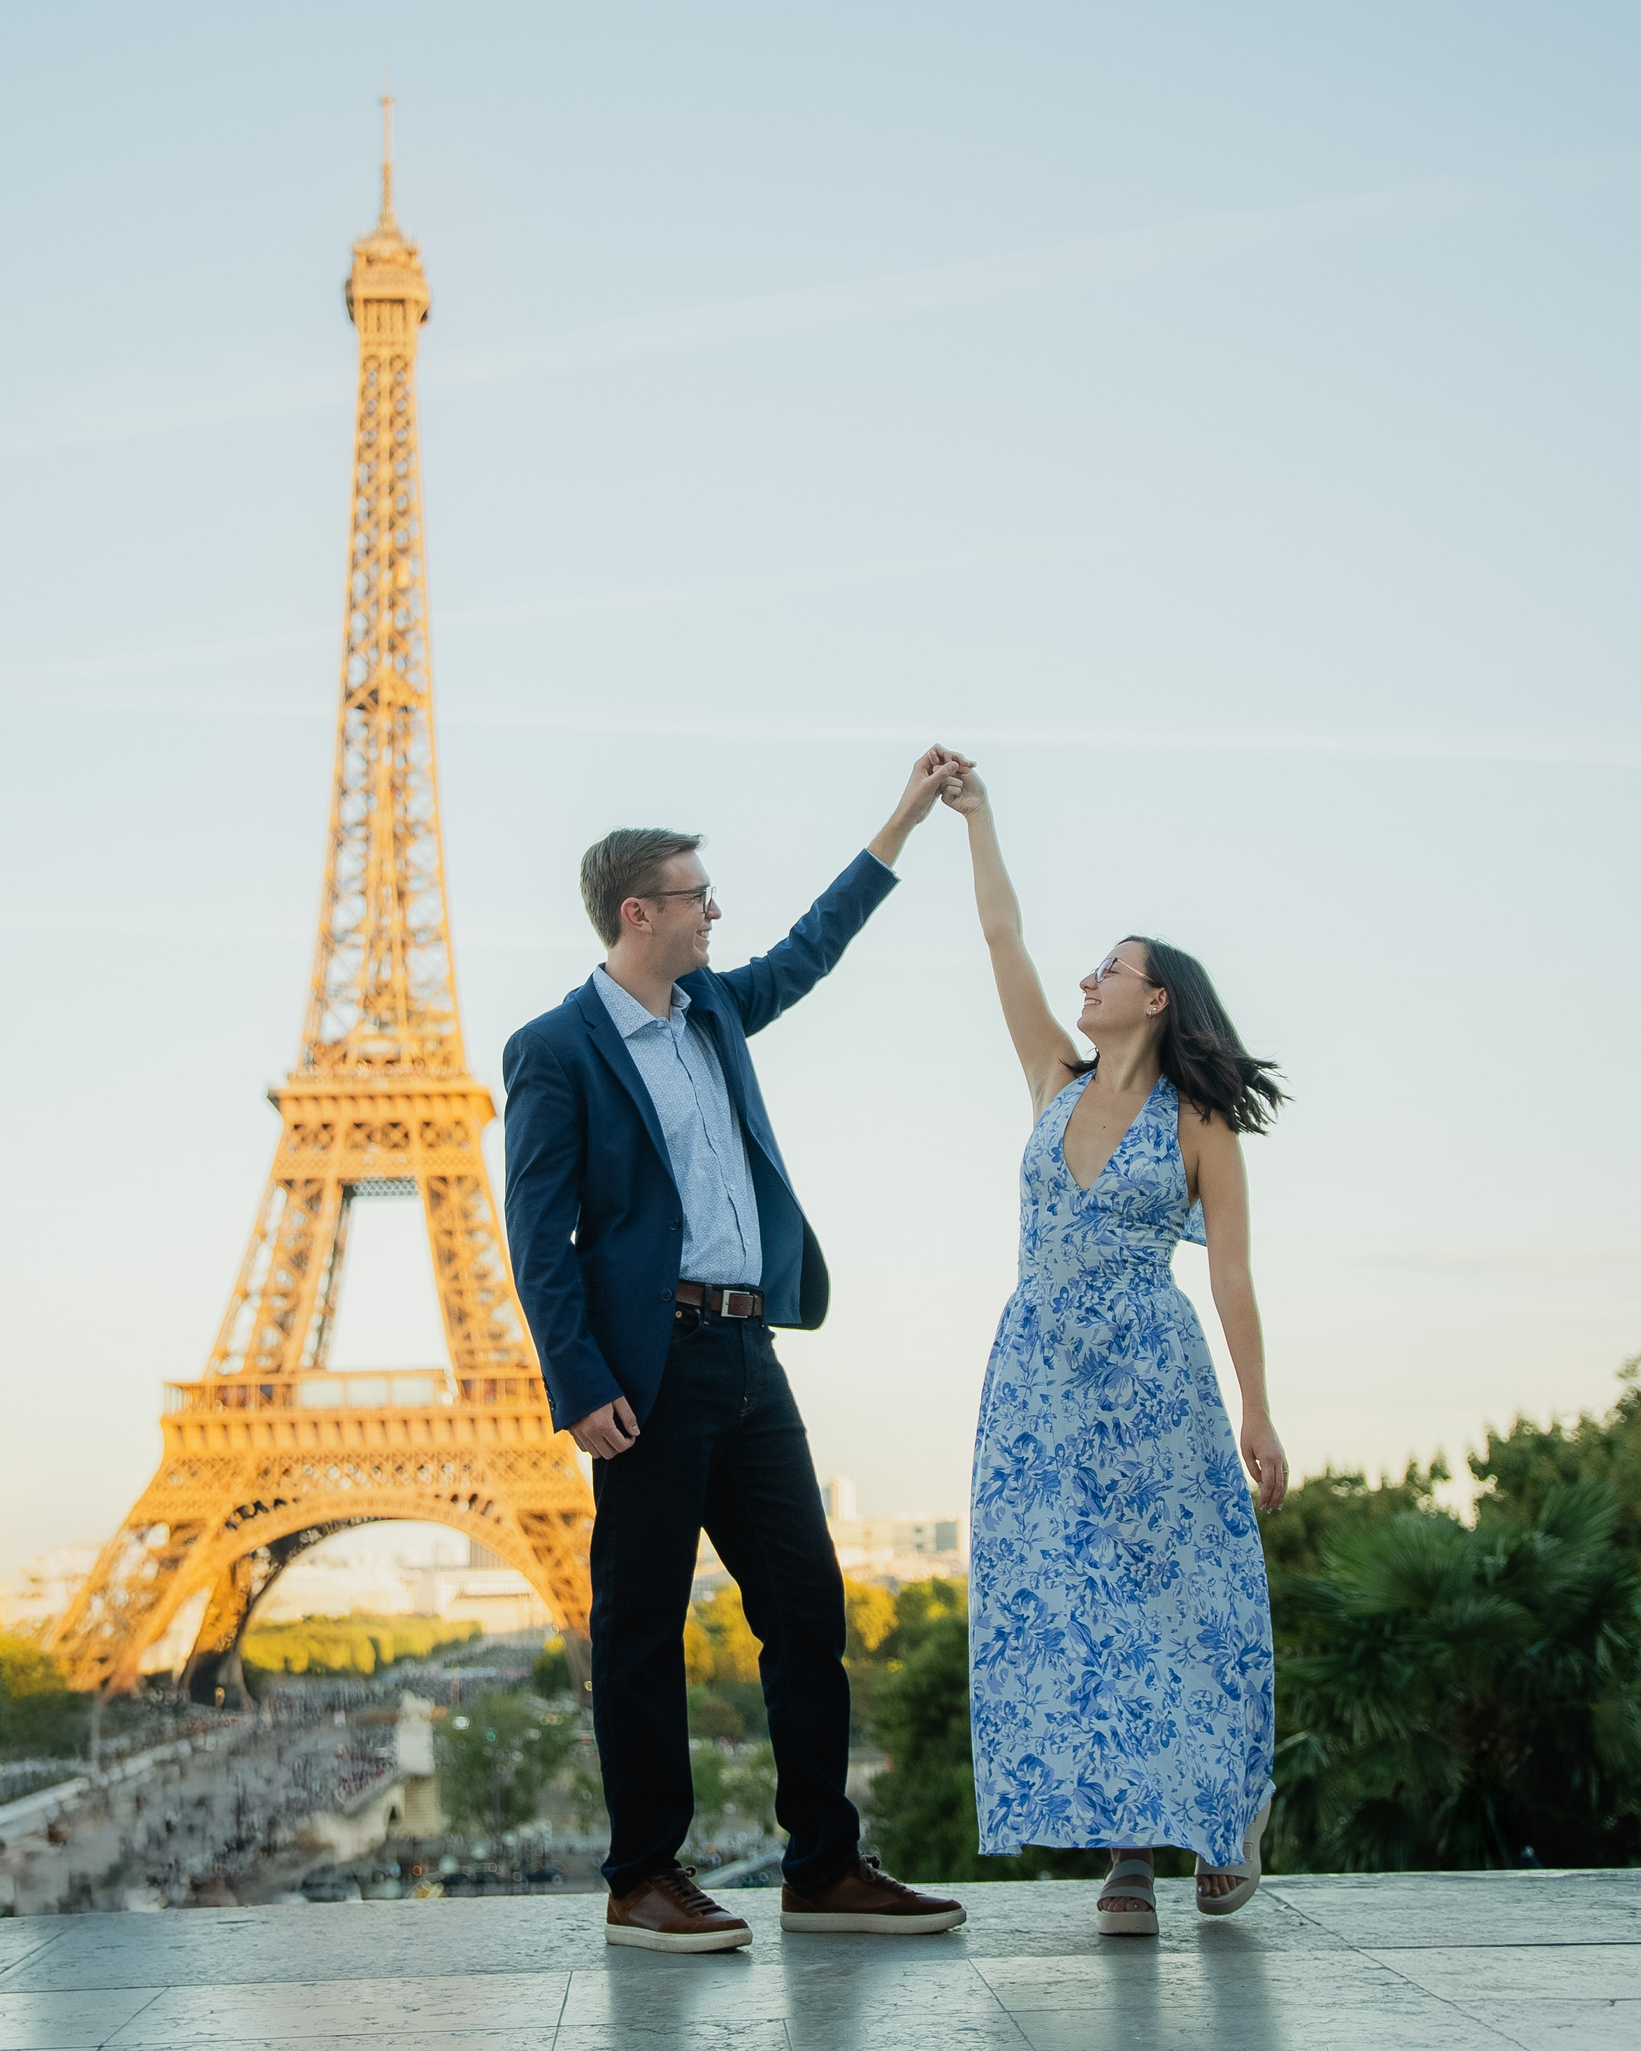
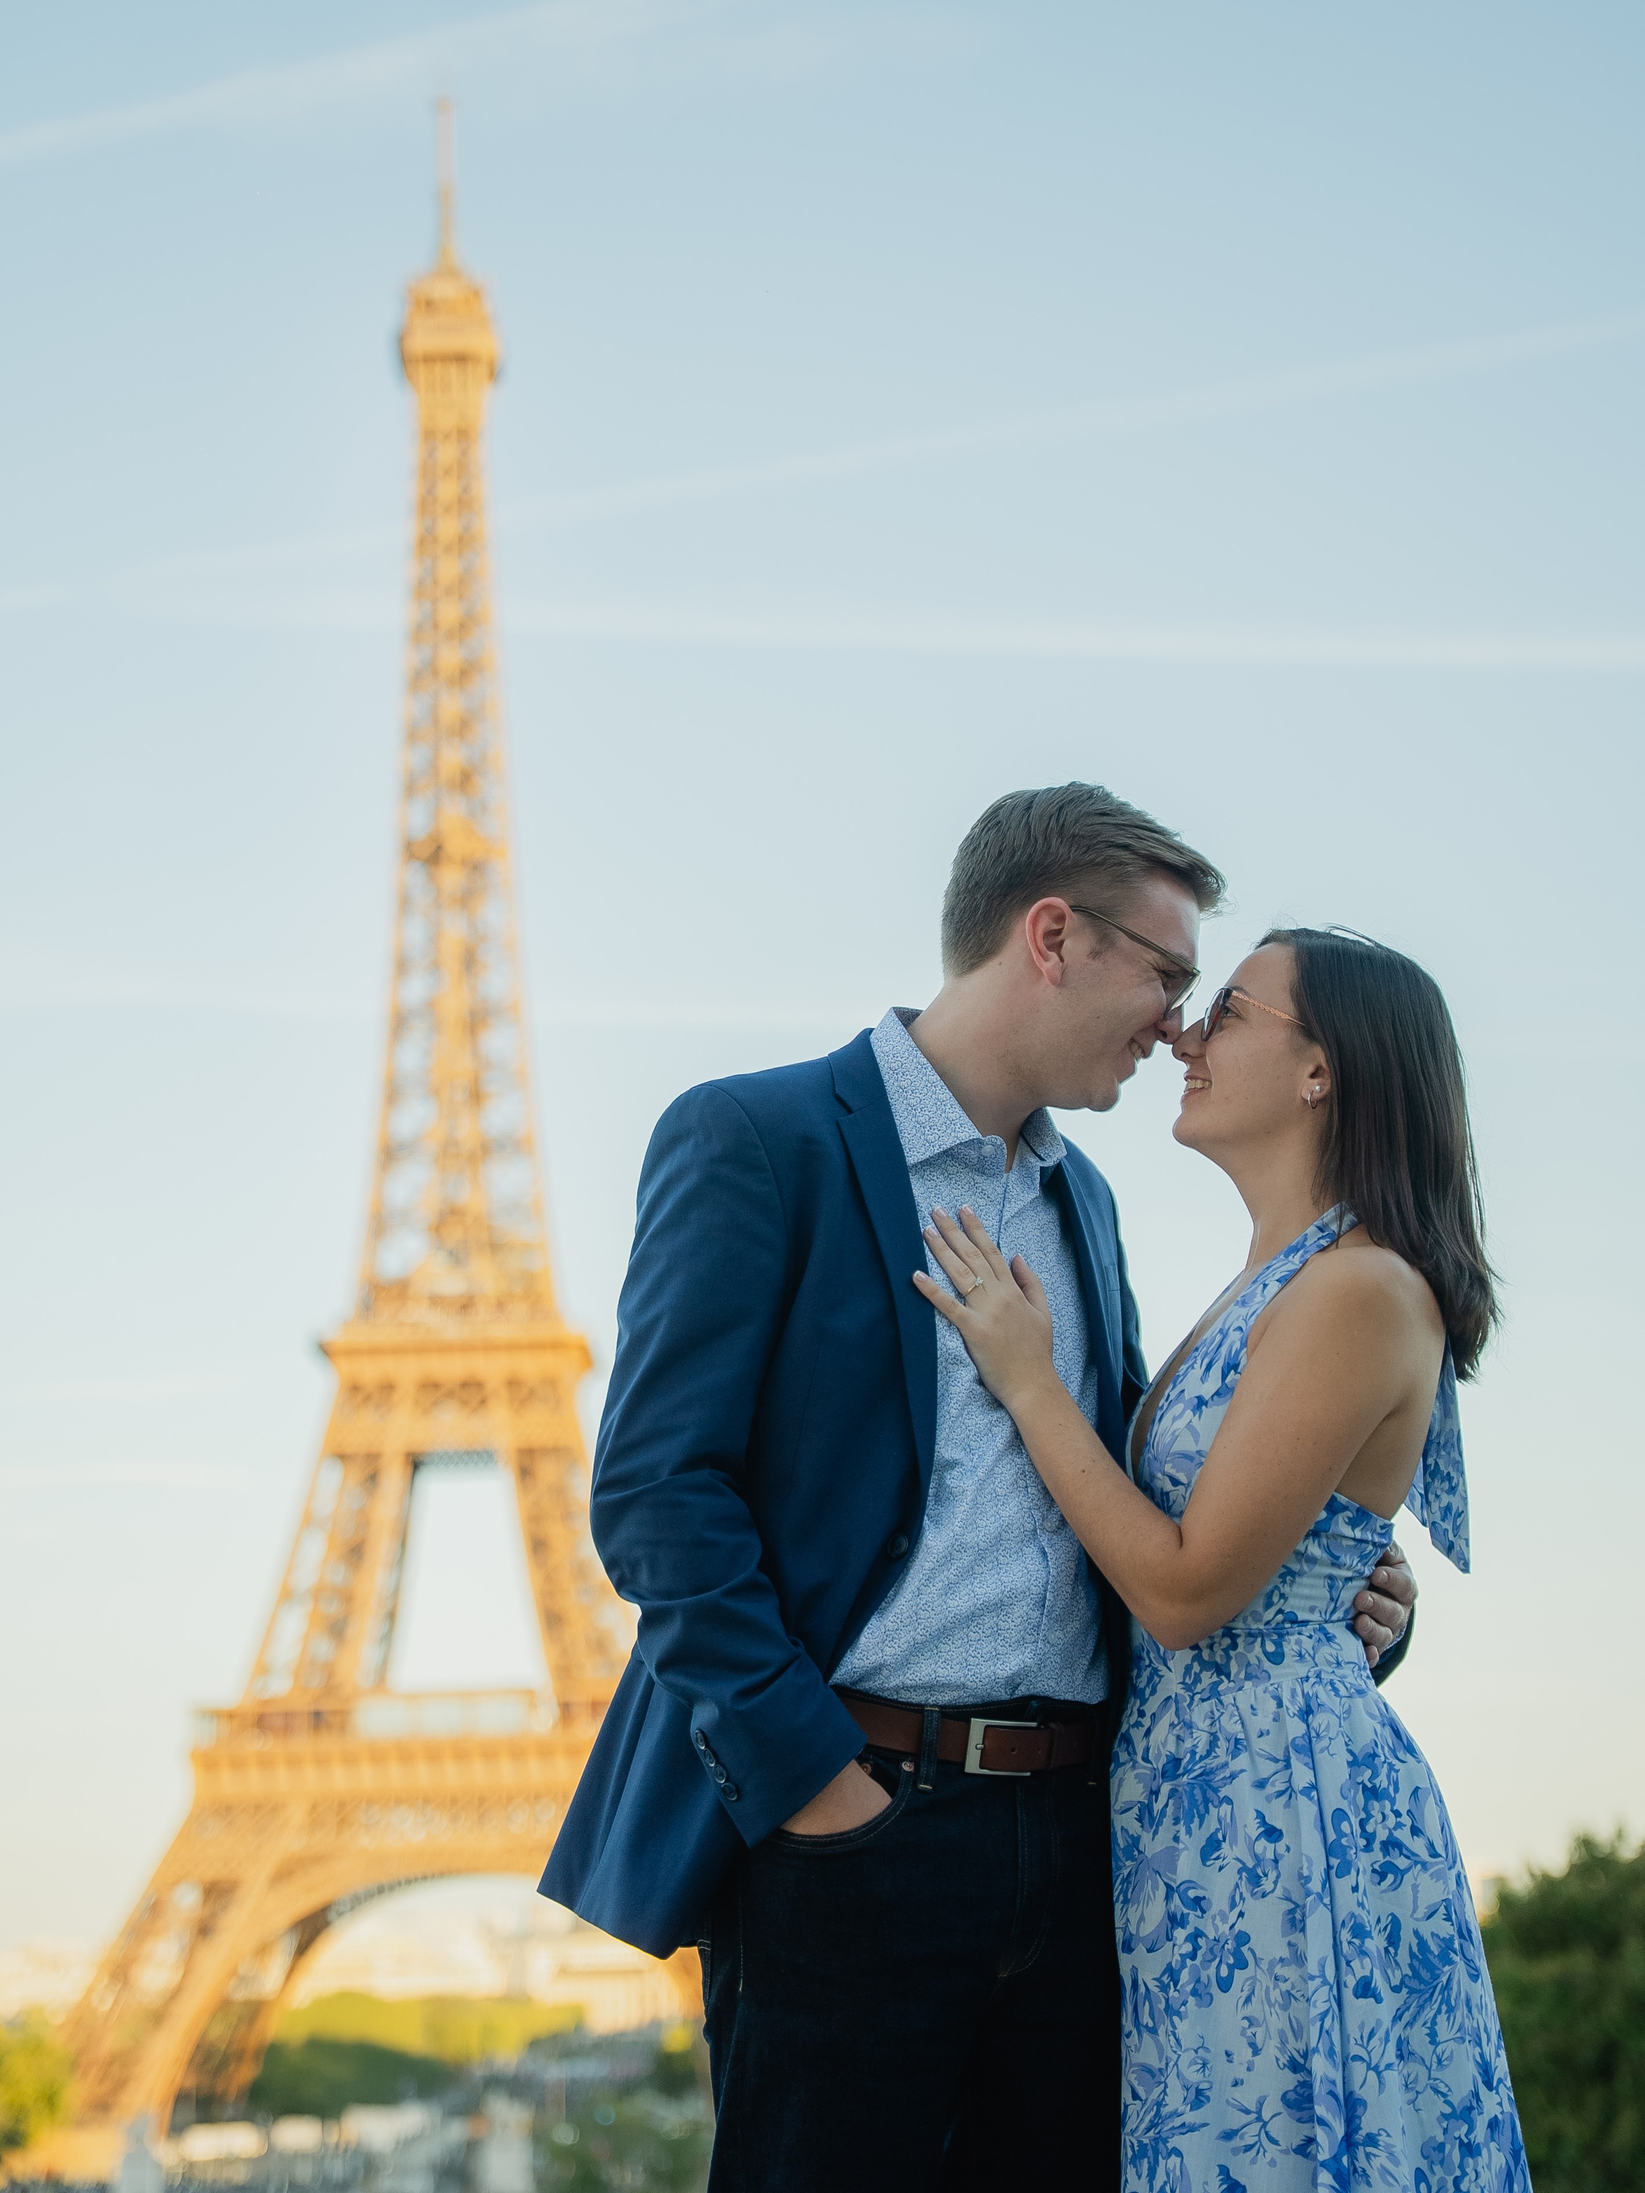
updated photo

diff --git a/index.html b/index.html
@@ -8,7 +8,7 @@
 <meta name="format-detection" content="telephone=no, date=no, address=no, email=no, url=no">
 <meta name="color-scheme" content="light only">
 <meta name="supported-color-schemes" content="light only">
-<title>Save the Date – Fred &amp; Sydney</title>
+<title font-size:96px>Save the Date – Fred &amp; Sydney</title>
 <!--[if mso]>
 <noscript><xml><o:OfficeDocumentSettings><o:PixelsPerInch>96</o:PixelsPerInch></o:OfficeDocumentSettings></xml></noscript>
 <style>
@@ -63,7 +63,7 @@
         <!-- View in browser -->
         <tr>
           <td align="center" style="padding:0 0 12px 0; background-color:#EEF1EA; font-family:Georgia,'Times New Roman',serif; font-size:12px; line-height:18px; color:#5C6B50;">
-            <a href="{{VIEW_IN_BROWSER_URL}}" style="color:#5C6B50; text-decoration:underline;">View in browser</a>
+            <a href="https://freddiec19.github.io/Wedding2027/" style="color:#5C6B50; text-decoration:underline;">View in browser</a>
           </td>
         </tr>
 
@@ -97,7 +97,7 @@
               <tr>
                 <td class="pol-pad" style="padding:0 20px; background-color:#FFFFFF; font-size:0; line-height:0;">
                   <!-- REPLACE src with the hosted URL of your Paris photo -->
-                  <img src="https://YOUR-IMAGE-HOST.com/save-the-date/paris-eiffel.jpg" width="400" alt="Fred and Sydney kissing in front of the Eiffel Tower at sunset" style="width:100%; max-width:400px; height:auto; display:block; background-color:#C9D4BE;">
+                  <img src="https://freddiec19.github.io/Wedding2027/photos/DSC00811.JPEG" width="400" alt="Fred and Sydney kissing in front of the Eiffel Tower at sunset" style="width:100%; max-width:400px; height:auto; display:block; background-color:#C9D4BE;">
                 </td>
               </tr>
               <!-- Caption -->
